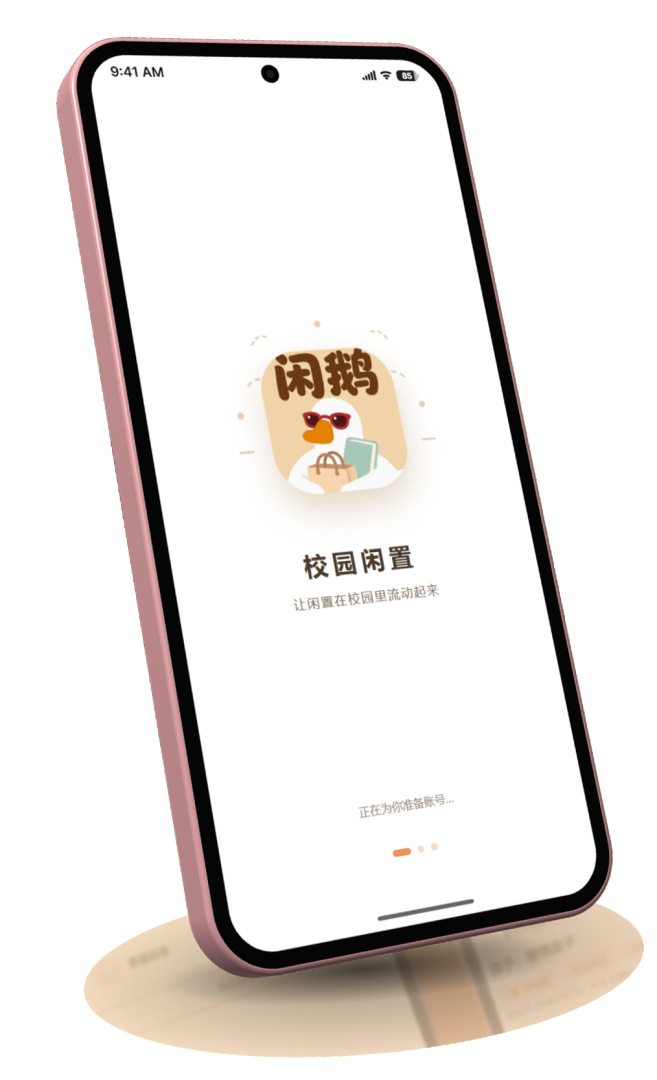
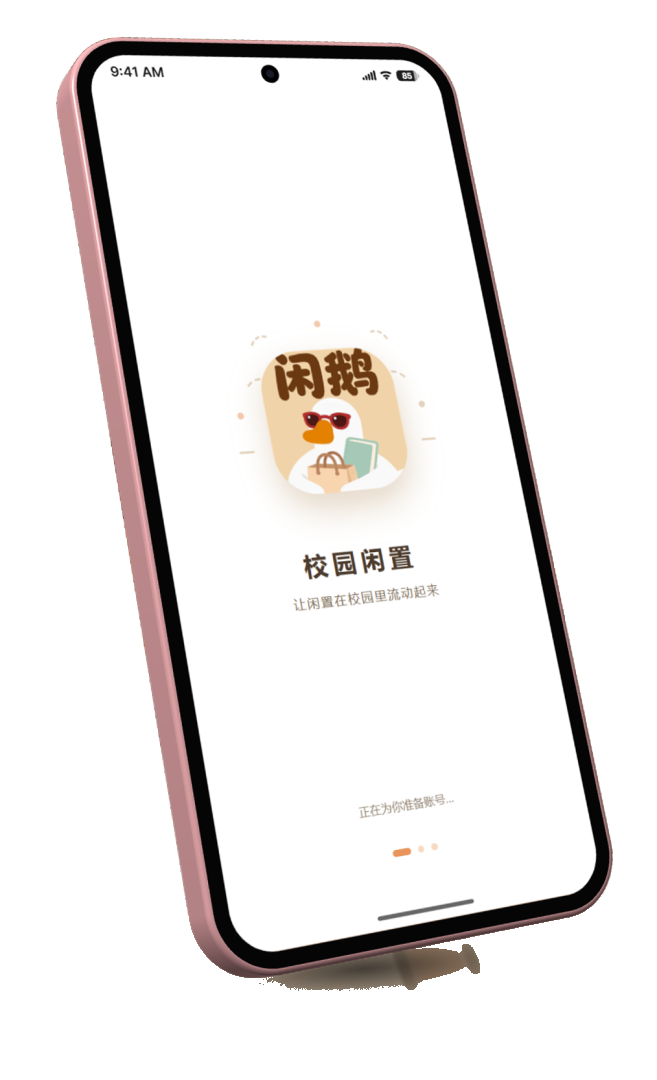
封面优化：抠掉启动页图米色椭圆底座、移除光晕；新增圆环+闲鹅描边水印装饰；标语标签署名换深棕；背景多层次对角渐变

Changed region(s): [[0.1218, 0.825, 1.0, 0.9778]]

diff --git a/index.html b/index.html
@@ -300,28 +300,27 @@ nav{position:fixed;top:0;left:0;right:0}
 .slide.dark .ps h3 em{color:#FFE7CF;text-decoration:underline;text-underline-offset:6px;text-decoration-thickness:3px}
 .slide.dark .ps p{color:rgba(255,255,255,.85)}
 /* 封面页 */
-.slide.cover{background:radial-gradient(900px 520px at 88% 112%,rgba(255,255,255,.18) 0%,transparent 55%),radial-gradient(700px 420px at -6% -18%,rgba(255,255,255,.14) 0%,transparent 55%),linear-gradient(135deg,#F7A661 0%,#EF8A38 52%,#E8762A 100%);color:#fff}
+.slide.cover{background:radial-gradient(760px 460px at -4% -14%,rgba(255,255,255,.2) 0%,transparent 55%),linear-gradient(118deg,#F9B269 0%,#F29B4B 36%,#E97E2C 66%,#D96C1E 100%);color:#fff}
+.slide.cover::before{content:"";position:absolute;width:560px;height:560px;border:1.5px solid rgba(255,255,255,.28);border-radius:50%;right:-130px;top:-150px}
+.slide.cover::after{content:"闲鹅";position:absolute;right:-30px;bottom:-110px;font-size:330px;font-weight:900;line-height:1;color:transparent;-webkit-text-stroke:2px rgba(255,255,255,.14);letter-spacing:.02em;pointer-events:none}
+.slide.cover .wrap{position:relative;z-index:1}
 .cover-grid{display:grid;grid-template-columns:1.05fr .95fr;gap:44px;align-items:center}
 .cov-icon{width:94px;height:94px;object-fit:cover;border-radius:22px;box-shadow:0 18px 40px rgba(140,60,10,.35);border:3px solid rgba(255,255,255,.55)}
-.slide.cover h1{font-size:clamp(44px,6vw,76px);font-weight:900;letter-spacing:.05em;margin:22px 0 8px;line-height:1.1}
+.slide.cover h1{font-size:clamp(44px,6vw,76px);font-weight:900;letter-spacing:.02em;margin:22px 0 8px;line-height:1.1}
 .slide.cover h1 span{font-weight:300;opacity:.95;margin-left:12px;letter-spacing:.14em}
-.cov-tag{font-size:clamp(18px,2.2vw,26px);font-weight:800;letter-spacing:.16em;color:#FFF3E4}
-.cov-line{width:64px;height:4px;background:rgba(255,255,255,.85);border-radius:2px;margin:18px 0 16px}
-.cov-desc{font-size:.9rem;line-height:1.95;color:rgba(255,255,255,.94);max-width:440px}
+.cov-tag{font-size:clamp(18px,2.2vw,26px);font-weight:900;letter-spacing:.2em;color:#6B3409}
+.cov-line{width:64px;height:4px;background:#6B3409;border-radius:2px;margin:18px 0 16px;opacity:.75}
+.cov-desc{font-size:.9rem;line-height:2.05;color:rgba(255,255,255,.94);max-width:440px;letter-spacing:.01em}
 .cov-tags{display:flex;gap:12px;margin-top:26px;flex-wrap:wrap}
-.cov-tags span{background:rgba(255,255,255,.16);border:1px solid rgba(255,255,255,.5);border-radius:999px;padding:8px 22px;font-weight:700;font-size:.85rem;letter-spacing:.08em}
-.cov-meta{margin-top:36px;font-size:.7rem;color:rgba(255,255,255,.78);letter-spacing:.06em}
+.cov-tags span{background:rgba(255,255,255,.2);border:1px solid rgba(107,52,9,.4);color:#5F2E08;border-radius:999px;padding:8px 22px;font-weight:800;font-size:.85rem;letter-spacing:.08em}
+.cov-meta{margin-top:36px;font-size:.7rem;color:rgba(95,46,8,.75);letter-spacing:.06em;font-weight:600}
 .cov-phones{position:relative;height:min(66vh,580px)}
-.cov-phones::before{content:"";position:absolute;inset:-8% -12%;background:radial-gradient(closest-side,rgba(255,255,255,.34) 0%,rgba(255,255,255,.12) 45%,transparent 72%);filter:blur(10px);border-radius:50%}
 .cov-phones .ph{position:absolute;height:100%;width:auto}
 .cov-phones .front{right:0;top:0;filter:drop-shadow(0 34px 46px rgba(110,42,4,.42)) drop-shadow(0 8px 14px rgba(110,42,4,.22));animation:covfloat 7s ease-in-out infinite}
 .cov-phones .back{left:2%;top:12%;height:80%;filter:drop-shadow(0 26px 38px rgba(110,42,4,.36));opacity:.97;animation:covfloat 7s ease-in-out -2.6s infinite}
 @keyframes covfloat{0%,100%{transform:translateY(0)}50%{transform:translateY(-14px)}}
 @media(prefers-reduced-motion:reduce){.cov-phones .ph{animation:none}}
-.slide.cover h1{letter-spacing:.02em}
-.slide.cover .cov-tag{letter-spacing:.22em;font-weight:700}
-.slide.cover .cov-desc{color:rgba(255,255,255,.88);line-height:2.05;letter-spacing:.01em}
-@media(max-width:860px){.cover-grid{grid-template-columns:1fr}.cov-phones{height:380px}}
+@media(max-width:860px){.cover-grid{grid-template-columns:1fr}.cov-phones{height:380px}.slide.cover::after{font-size:180px;bottom:-60px}}
 /* 下一步 */
 .next3{display:grid;grid-template-columns:repeat(3,1fr);gap:14px}
 .nc{background:#fff;border:1px solid var(--line);border-radius:16px;padding:20px}
